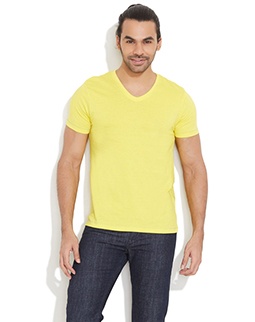
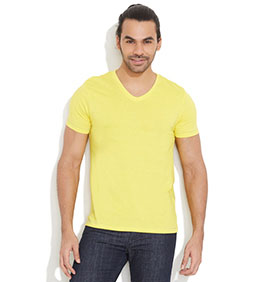
change card-img

Changed region(s): [[0.1647, 0.0, 0.8235, 1.0]]

diff --git a/html-css/module-05/index.html b/html-css/module-05/index.html
@@ -65,7 +65,7 @@
                 src="img/category-01.jpg"
                 alt="Blue Tshirt"
                 width="255"
-                height="322"
+                height="282"
               />
               <div class="collection-list-info clearfix">
                 <h3 class="collection-list-name">
@@ -92,7 +92,7 @@
               src="img/category-02.jpg"
               alt="Woman Tshirt"
               width="255"
-              height="322"
+              height="282"
             />
             <div class="collection-list-info clearfix">
               <h3 class="collection-list-name"><a href="#">Woman Tshirt</a></h3>
@@ -116,7 +116,7 @@
               src="img/category-03.jpg"
               alt="Yellow Tshirt"
               width="255"
-              height="322"
+              height="282"
             />
             <div class="collection-list-info clearfix">
               <h3 class="collection-list-name">
@@ -142,7 +142,7 @@
               src="img/category-04.jpg"
               alt="Cool Lingerie"
               width="255"
-              height="322"
+              height="282"
             />
             <div class="collection-list-info clearfix">
               <h3 class="collection-list-name">

diff --git a/html-css/module-05/css/styles.css b/html-css/module-05/css/styles.css
@@ -256,8 +256,6 @@ main {
 
 .collection-list-info {
   background-color: #323232;
-  position: absolute;
-  bottom: 0px;
 }
 
 .collection-list-name {
